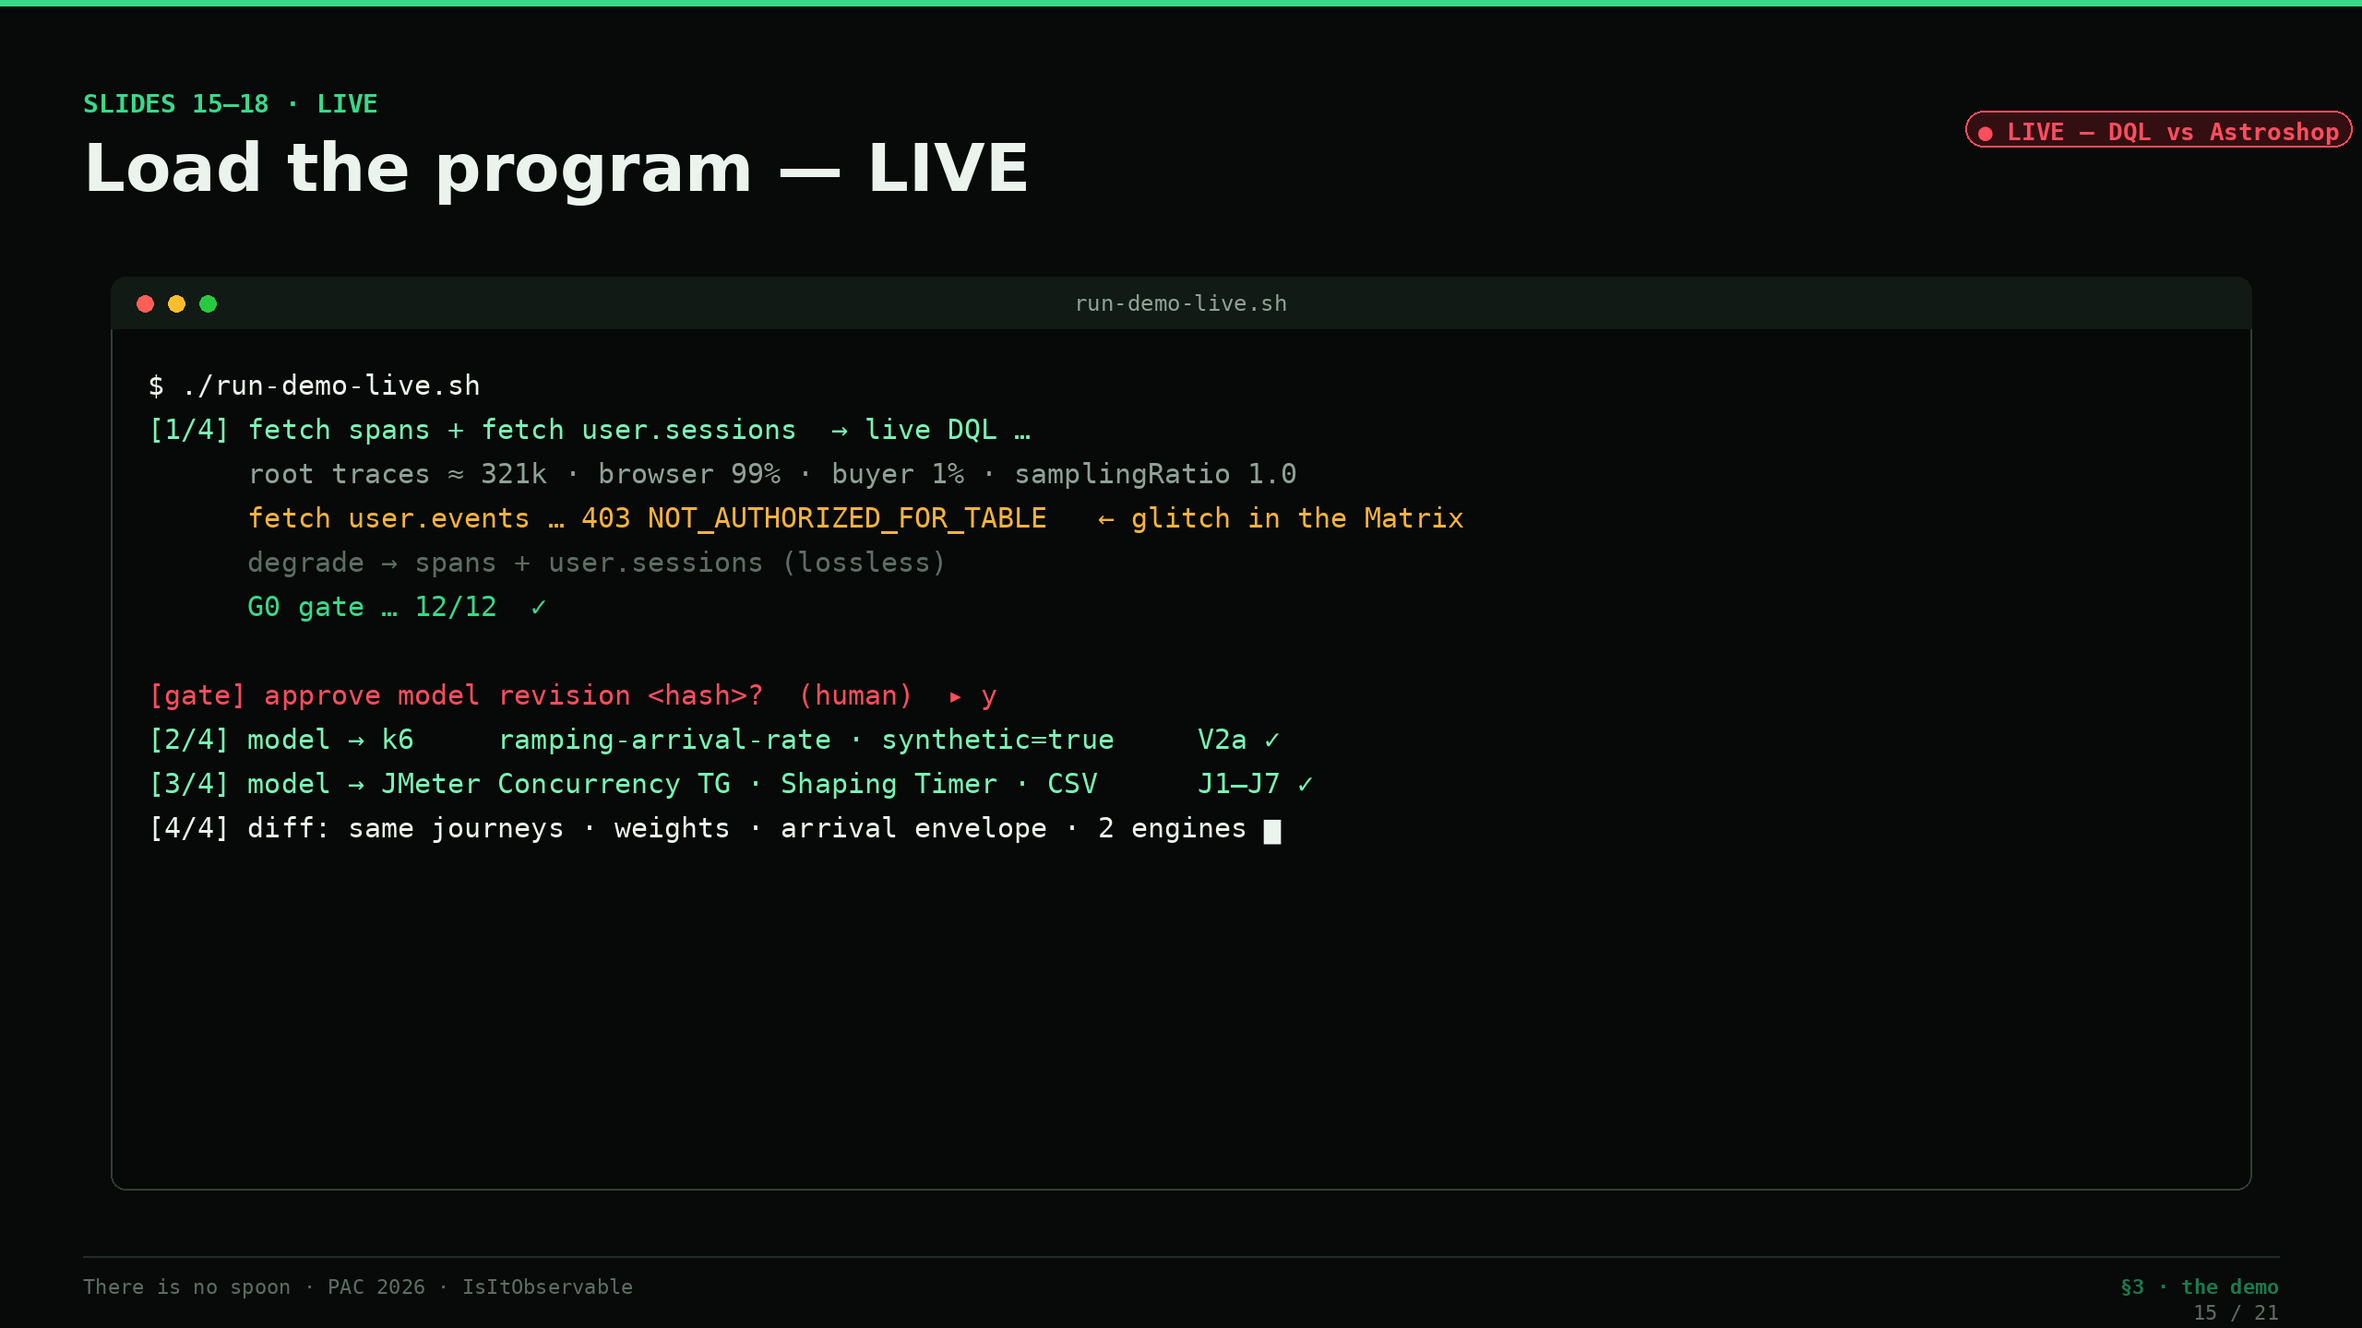
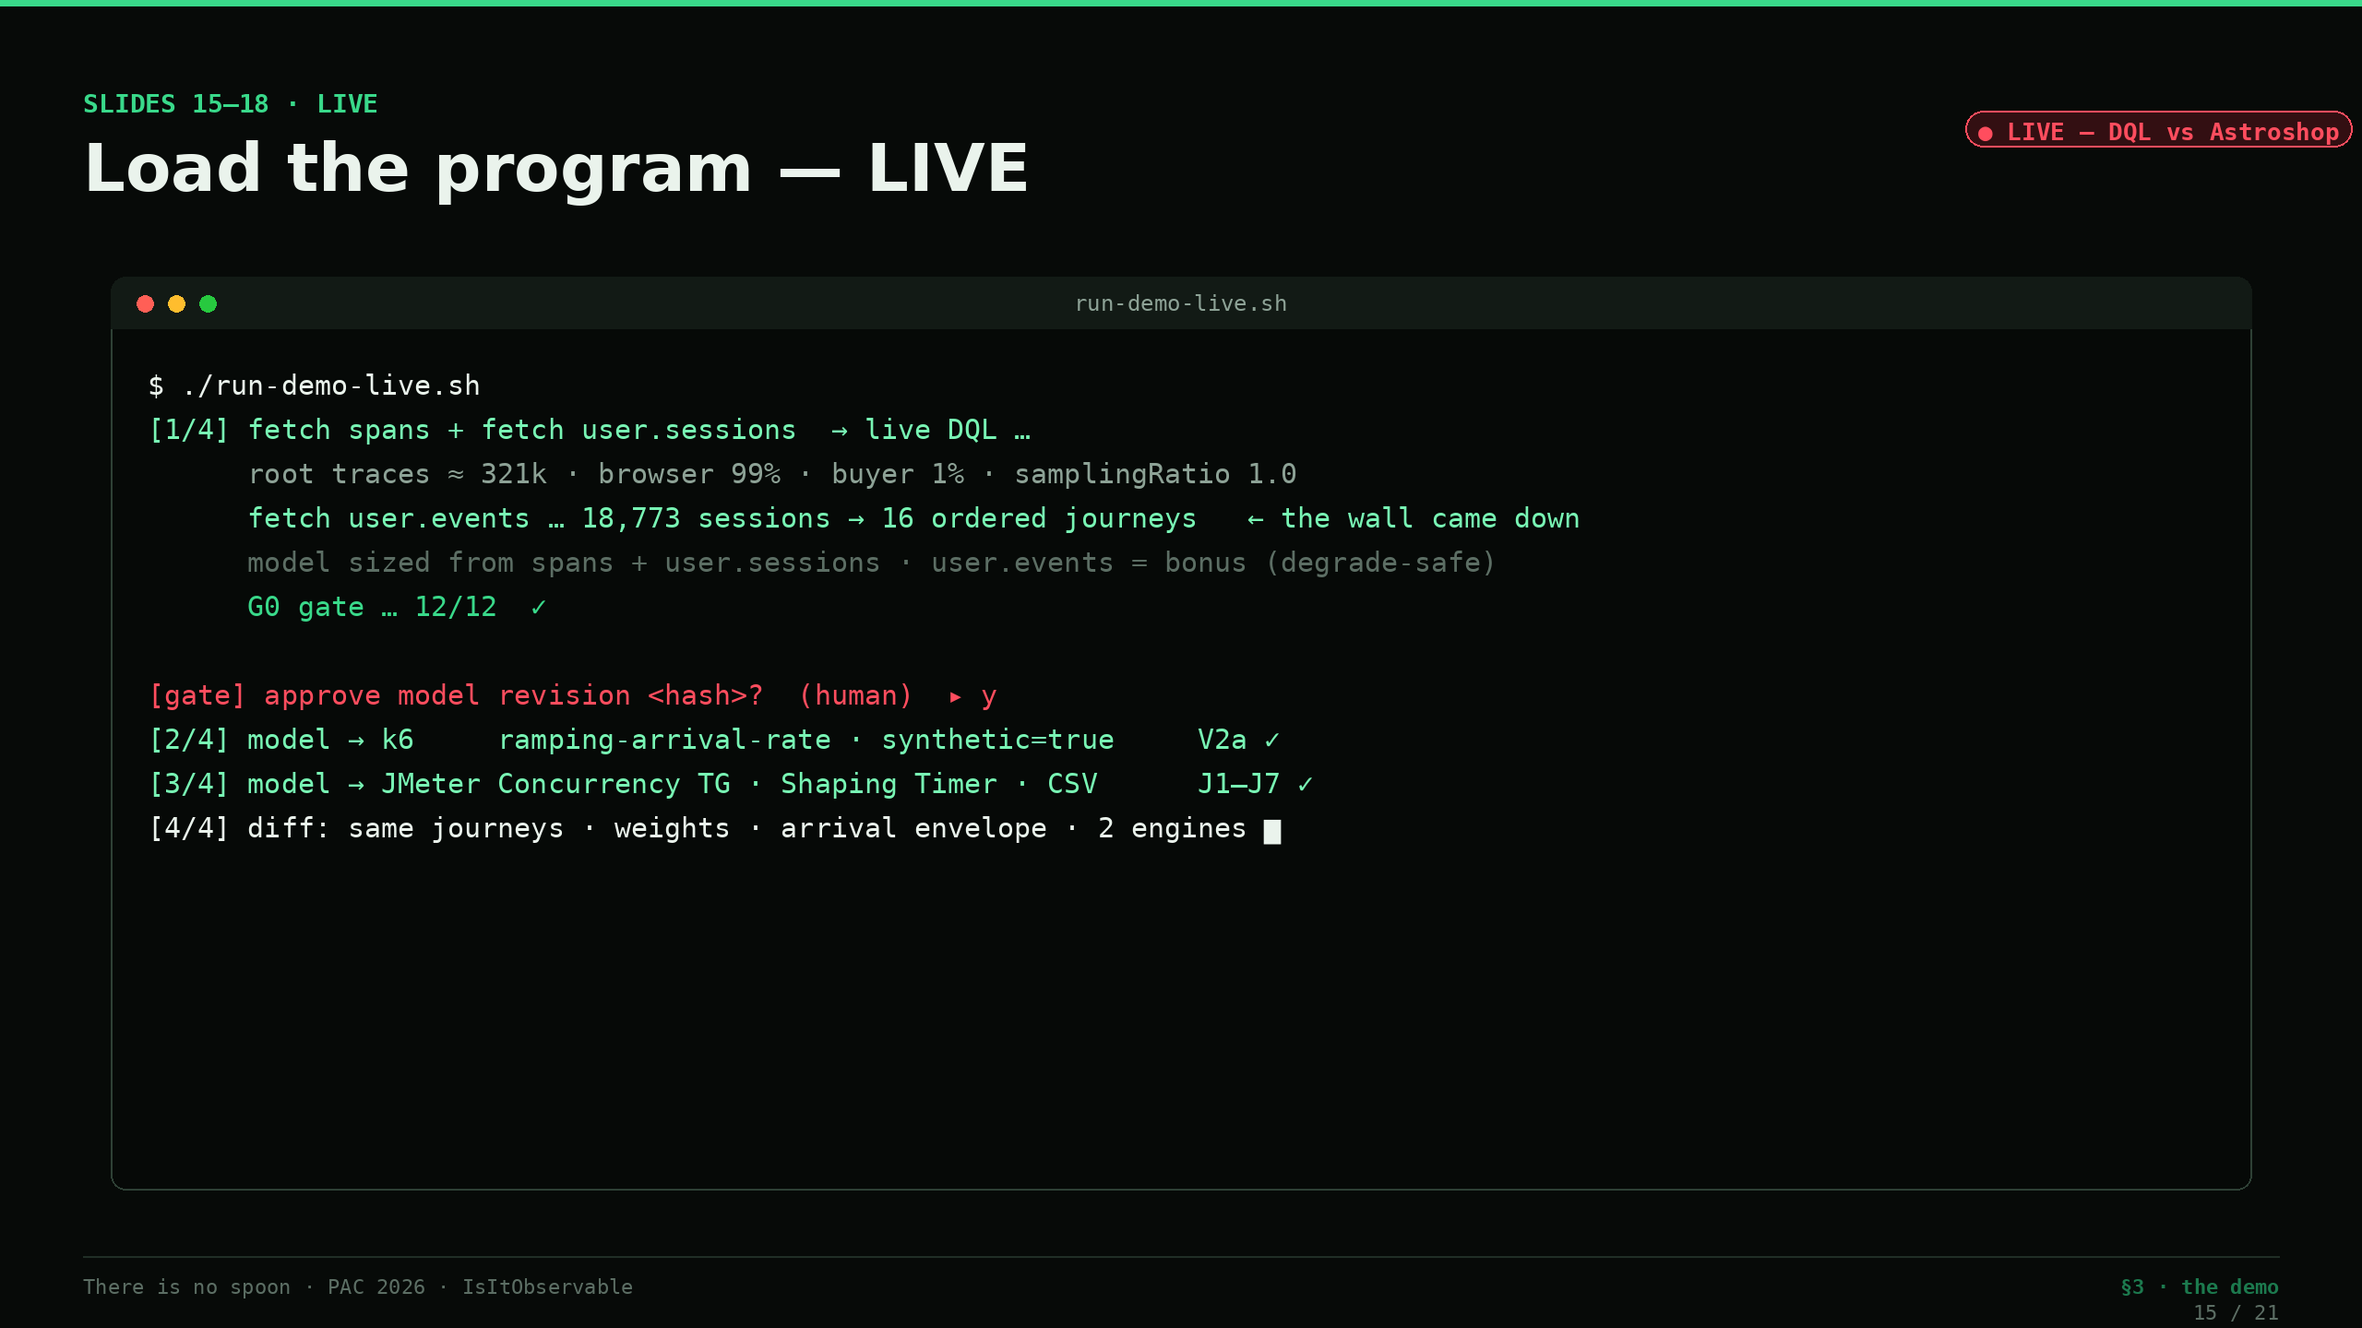
ISI-5726/ISI-5724: user.events now LIVE in slide visuals — edge solid, 403 beat reframed
Post-approval accuracy fix (ISI-5726, flagged by workstream C). Scope
storage:user.events:read was granted on the wkf10640 token 2026-10-13
(ISI-5719, 0e6a552), so `fetch user.events` now returns rows. The Matrix
visual system still narrated it as 403 / scope-gated / glitch.

- d5-stack (slide 13): user.events Grail chip amber/403 -> solid RED
  "RUM · user.events"; grail->built connector dashed-amber -> solid RED
  arrow "user.events -> journeys". Logs leg stays dashed (still spans-only
  on this tenant) — only the user.events edge changed, per C's flag.
- d3-dual-source (slide 8): user.events chip amber "403 · scope-gated" ->
  live green "LIVE · 16 journeys", matching user.sessions. Honesty note
  "volume merge needs only user.sessions + spans" preserved.
- slide-15-demo (demo master/exemplar): "403 NOT_AUTHORIZED_FOR_TABLE ...
  glitch in the Matrix" -> "18,773 sessions -> 16 ordered journeys ... the
  wall came down"; degrade-safe honesty kept as documented fallback. This
  is the LIVE demo beat (slide 16) where the query now succeeds on stage.
- 00-visual-system legend + DESIGN-SYSTEM.md: amber motif reframed from
  "403" to "unavailable (logs leg)"; honesty-flag #1 rewritten (scope
  granted; graceful degrade is now the beat, 403 is the fallback).

Changed region(s): [[0.0938, 0.375, 0.6562, 0.4375]]

diff --git a/presentation-matrix/gen_diagrams.py b/presentation-matrix/gen_diagrams.py
@@ -247,11 +247,11 @@ def d3_dual():
     text_c(d, (rx0+(rx0+rx1)//2)//2+18, ltop+186, "fetch user.sessions", font("mono", 26, bold=True), fill=T.GREEN_HI)
     text_c(d, (rx0+(rx0+rx1)//2)//2+18, ltop+228, "1 row / real session", font("mono", 21), fill=T.MUTE)
     badge(d, (rx0+150, ltop+252), "LIVE · 35,679 / 24h", font("mono", 20, bold=True), fg=T.GREEN)
-    # user.events (403)
-    chip(d, [(rx0+rx1)//2+18, ltop+150, rx1-70, ltop+300], fill=(26,20,12), outline=T.AMBER)
-    text_c(d, (rx1+(rx0+rx1)//2)//2-18, ltop+186, "fetch user.events", font("mono", 26, bold=True), fill=T.AMBER)
+    # user.events (live — scope granted ISI-5719)
+    chip(d, [(rx0+rx1)//2+18, ltop+150, rx1-70, ltop+300], fill=T.BG3, outline=T.GREEN)
+    text_c(d, (rx1+(rx0+rx1)//2)//2-18, ltop+186, "fetch user.events", font("mono", 26, bold=True), fill=T.GREEN_HI)
     text_c(d, (rx1+(rx0+rx1)//2)//2-18, ltop+228, "ordered actions + think-time", font("mono", 19), fill=T.MUTE)
-    badge(d, ((rx0+rx1)//2+110, ltop+252), "403 · scope-gated", font("mono", 20, bold=True), fg=T.AMBER)
+    badge(d, ((rx0+rx1)//2+110, ltop+252), "LIVE · 16 journeys", font("mono", 20, bold=True), fg=T.GREEN)
     text_c(d, (rx0+rx1)//2, ltop+352, "real journeys · real arrival curve · real device / geo / network",
            font("mono", 22), fill=T.INK)
     text_c(d, (rx0+rx1)//2, ltop+410, "volume merge needs only user.sessions + spans (live today)",
@@ -366,9 +366,8 @@ def d5_stack():
     text_c(d, gx0+gw//2, gb[1]+175, "spans  (traces)", font("mono", 30, bold=True), fill=T.GREEN_HI)
     chip(d, [gx0+50, gb[1]+232, gx0+gw-50, gb[1]+302], fill=T.BG3, outline=T.RED)
     text_c(d, gx0+gw//2, gb[1]+267, "RUM · user.sessions", font("mono", 28, bold=True), fill=T.RED)
-    chip(d, [gx0+50, gb[1]+324, gx0+gw-50, gb[1]+394], fill=(26,20,12), outline=T.AMBER)
-    text_c(d, gx0+gw//2, gb[1]+350, "user.events", font("mono", 26, bold=True), fill=T.AMBER)
-    badge(d, (gx0+gw//2-118, gb[1]+372), "403 scope-gated", font("mono", 18, bold=True), fg=T.AMBER)
+    chip(d, [gx0+50, gb[1]+324, gx0+gw-50, gb[1]+394], fill=T.BG3, outline=T.RED)
+    text_c(d, gx0+gw//2, gb[1]+360, "RUM · user.events", font("mono", 26, bold=True), fill=T.RED)
 
     # 4 the built part: agent -> skill -> engine (stacked column)
     cx0 = 1930; cw = 340
@@ -409,10 +408,10 @@ def d5_stack():
     # logs dashed (unavailable)
     dashed_line(d, (b2[2]+14, rowy+150), (gx0-14, rowy+150), fill=T.AMBER, width=4)
     text_c(d, (b2[2]+gx0)//2, rowy+180, "logs — empty on this tenant", font("mono", 20), fill=T.AMBER)
-    # grail -> built column (spans solid, events dashed)
+    # grail -> built column (spans solid; user.events now solid — live, scope granted ISI-5719)
     arrow(d, (gx0+gw+14, rowy-60), (cx0-14, rowy-150), color=T.GREEN, width=6, head=20)
-    dashed_line(d, (gx0+gw+14, rowy+120), (cx0-14, rowy+40), fill=T.AMBER, width=4)
-    text_c(d, (gx0+gw+cx0)//2+10, rowy+150, "user.events 403", font("mono", 19), fill=T.AMBER)
+    arrow(d, (gx0+gw+14, rowy+120), (cx0-14, rowy+40), color=T.RED, width=6, head=20)
+    text_c(d, (gx0+gw+cx0)//2+10, rowy+150, "user.events → journeys", font("mono", 19), fill=T.RED)
     # engine -> gate -> renderers
     arrow(d, (built_boxes[2][2]+10, rowy), (gatex-80, rowy), color=T.GREEN, width=6, head=20)
     arrow(d, (gatex+80, rowy), (rx0-14, rowy), color=T.RED, width=6, head=20)

diff --git a/presentation-matrix/gen_system.py b/presentation-matrix/gen_system.py
@@ -85,7 +85,7 @@ def visual_system():
         ("BG0", T.BG0, "base"), ("BG1", T.BG1, "panel"), ("BG2", T.BG2, "raised"),
         ("LINE", T.LINE2, "border"),
         ("GREEN", T.GREEN, "signal / truth"), ("RED", T.RED, "red pill · the gate"),
-        ("BLUE", T.BLUE, "blue pill · guess"), ("AMBER", T.AMBER, "caution · 403"),
+        ("BLUE", T.BLUE, "blue pill · guess"), ("AMBER", T.AMBER, "caution · unavail"),
         ("INK", T.INK, "text"), ("MUTE", T.MUTE, "text 2"),
     ]
     x = 90
@@ -119,7 +119,7 @@ def visual_system():
     # lock + badge
     lock(d, (mx+40, 806), size=46, color=T.RED)
     text_l(d, (mx+90, 786), "V1 gate (the Oracle)", font("mono", 24), fill=T.INK)
-    badge(d, (mx+90, 826), "403 · scope-gated", font("mono", 22, bold=True), fg=T.AMBER)
+    badge(d, (mx+90, 826), "logs · unavailable", font("mono", 22, bold=True), fg=T.AMBER)
     # rain sample
     rb = [mx+620, 600, mx+880, 850]
     panel(d, rb, fill=T.BG1, outline=T.LINE)
@@ -134,7 +134,7 @@ def visual_system():
     rules = [
         "Theme = punctuation, not argument. In the technical core, numbers carry the weight.",
         "ONE structural accent (green). Red/blue only where guess-vs-truth is the actual point.",
-        "Reserve the glitch treatment for the sampling slide. Dashed+amber = 'unavailable / 403'.",
+        "Reserve the glitch treatment for the sampling slide. Dashed+amber = 'unavailable' (logs leg).",
         "Every Matrix line maps to a real technical claim — or it gets cut.",
     ]
     yy = 1004
@@ -281,8 +281,8 @@ def master_demo(exemplar=False):
         ("$ ./run-demo-live.sh", T.INK),
         ("[1/4] fetch spans + fetch user.sessions  → live DQL …", T.GREEN_HI),
         ("      root traces ≈ 321k · browser 99% · buyer 1% · samplingRatio 1.0", T.MUTE),
-        ("      fetch user.events … 403 NOT_AUTHORIZED_FOR_TABLE   ← glitch in the Matrix", T.AMBER),
-        ("      degrade → spans + user.sessions (lossless)", T.FAINT),
+        ("      fetch user.events … 18,773 sessions → 16 ordered journeys   ← the wall came down", T.GREEN_HI),
+        ("      model sized from spans + user.sessions · user.events = bonus (degrade-safe)", T.FAINT),
         ("      G0 gate … 12/12  ✓", T.GREEN),
         ("", T.INK),
         ("[gate] approve model revision <hash>?  (human)  ▸ y", T.RED),
@@ -295,7 +295,7 @@ def master_demo(exemplar=False):
         text_l(d, (tb[0]+40, yy), s, tf, fill=col)
         yy += 48
     if not exemplar:
-        text_c(d, W//2, H-110, "MASTER · demo · terminal chrome · green-on-black · LIVE badge · 403 + gate highlighted",
+        text_c(d, W//2, H-110, "MASTER · demo · terminal chrome · green-on-black · LIVE badge · live user.events + gate highlighted",
                font("mono", 24), fill=T.FAINT)
     chrome(d, ("§3 · the demo" if exemplar else "master · demo"), 15 if exemplar else 0)
     name = "slide-15-demo" if exemplar else "master-demo"

diff --git a/presentation-matrix/DESIGN-SYSTEM.md b/presentation-matrix/DESIGN-SYSTEM.md
@@ -21,10 +21,10 @@ The theme is a **thin framing layer**. Dark base, green "digital rain" used *spa
 | `GREEN_HI` | `#78F5B4` | rain heads, code glow |
 | `RED` | `#FF4D5E` | **red pill = observed truth / the human gate (the Oracle)** |
 | `BLUE` | `#5C8DEF` | **blue pill = guessing / synthetic / folklore** |
-| `AMBER` | `#F6B23C` | honesty beats: dashed "unavailable" / `403` glitch / caveats |
+| `AMBER` | `#F6B23C` | honesty beats: dashed "unavailable" (empty logs leg) / the sampling glitch (#6) / graceful-degrade fallback / caveats |
 | `INK` / `MUTE` / `FAINT` | `#EAF3EC` / `#8DA296` / `#5C6E64` | text tiers |
 
-**Discipline:** red/blue appear *only* where guess-vs-truth is the actual point. Amber is reserved for "unavailable / 403". The glitch treatment is reserved for the sampling slide (#6). One corner-radius scale (9px @1x). Hairline borders, accent top-rail on nodes.
+**Discipline:** red/blue appear *only* where guess-vs-truth is the actual point. Amber is reserved for "unavailable" (the empty logs leg) and the sampling-glitch beat. The glitch treatment is reserved for the sampling slide (#6). One corner-radius scale (9px @1x). Hairline borders, accent top-rail on nodes.
 
 ### Typography
 - **DejaVu Sans / Sans Bold** — titles & body (the host has no Geist/Satoshi/Inter; DejaVu is the available neutral grotesque and avoids the default-Inter tell).
@@ -32,7 +32,7 @@ The theme is a **thin framing layer**. Dark base, green "digital rain" used *spa
 - Scale @1920×1080 intent: deck title ~150 · slide title 84/72 · body 40 · bullets ≤6 words where possible · mono code 30–32.
 
 ### Motifs
-Red/blue **pills** · **lock** = the V1 gate / the Oracle · amber **`403 · scope-gated`** badge · **code-rain** (hex/binary glyphs, low alpha, edge strips only).
+Red/blue **pills** · **lock** = the V1 gate / the Oracle · amber **dashed "unavailable"** marker (logs leg) · **code-rain** (hex/binary glyphs, low alpha, edge strips only).
 
 See **`images/00-visual-system.png`** — the one-page reference board (palette swatches with hex, type scale, motifs, discipline rules).
 
@@ -45,7 +45,7 @@ See **`images/00-visual-system.png`** — the one-page reference board (palette 
 | Title | `master-title.png` | slide 1, 21 | full-bleed rain, pills introduced; bookend |
 | Section | `master-section.png` | act turns | big `§NN` numeral, rain on right third, pill divider |
 | Content | `master-content.png` | slides 3,5,6,7,8,9,11,12,13,14,20 | kicker + title top-left, bullets left, visual/diagram right **or** full-bleed diagram |
-| Demo | `master-demo.png` | slides 15–18 | terminal chrome, green-on-black, `● LIVE` badge, 403 + gate highlighted |
+| Demo | `master-demo.png` | slides 15–18 | terminal chrome, green-on-black, `● LIVE` badge, live `user.events` + gate highlighted |
 | Discussion 💬 | `master-discussion.png` | slides 4,10,21 | near-empty, one big question, blinking `> _`, rain strip |
 
 Every slide carries the same chrome: 6px green top accent, footer rule with `There is no spoon · PAC 2026 · IsItObservable` (left) and `§ section` + `NN / 21` (right).
@@ -60,21 +60,21 @@ Each diagram ships **twice**: `name.png` (transparent background, drop onto any 
 |---|---|---|---|
 | D1 | `d1-loop` | 19 | **The loop** — SCOPE→VALIDATE→SYNTHESIZE→EXECUTE→ANALYZE clockwise; VALIDATE = the Oracle (red, lock, *Temet Nosce*); closing edge dashed-amber `iterate ≤ 3 → escalate`; center "delegate EXECUTION, not judgment". |
 | D2 | `d2-construct` | 12 | **The Construct (3-layer engine)** — INPUT ADAPTER (backend-specific: DQL/Tempo/Jaeger/Envoy) → **ENGINE** (agnostic·deterministic·offline-testable; discovery, ~80% clustering, Little's Law, ramp, dataset sizing) → RENDERERS (k6/JMeter/Locust/Gatling ✓). Labels: `neutral telemetry`, `workload-model.json`. |
-| D3 | `d3-dual-source` | 8 | **Dual-source storage** — SERVER-SIDE TRACES → `fetch spans`; RUM → `fetch user.sessions` (LIVE) + `fetch user.events` (**403 · scope-gated**, amber); both via **DQL**; **stitched on `dt.rum.session.id`** (red); → one workload model. "Residual self image" wireframe motif. |
+| D3 | `d3-dual-source` | 8 | **Dual-source storage** — SERVER-SIDE TRACES → `fetch spans`; RUM → `fetch user.sessions` (LIVE) + `fetch user.events` (**LIVE · 16 journeys**, green — scope granted ISI-5719); both via **DQL**; **stitched on `dt.rum.session.id`** (red); → one workload model. "Residual self image" wireframe motif. |
 | D4 | `d4-many-worlds` | 14 | **One model, many worlds** — one `workload-model.json` → renderer registry → k6 / JMeter / Locust / Gatling, each `✓ acceptance tests`. "Guns. Lots of guns." |
-| D5 | `d5-stack` | 13 | **The wired stack** — Astroshop (OTel Demo) → OTel Collector → Dynatrace Grail (`spans` / `user.sessions` / `user.events`) → agent → skill → engine → **V1 gate (lock)** → renderers (k6, JMeter). **Honest annotations:** `logs` leg **dashed** (empty on this tenant), `user.events` edge **dashed + 403**. Footer: read-only · extraction-only · non-production · tenant-isolated. |
+| D5 | `d5-stack` | 13 | **The wired stack** — Astroshop (OTel Demo) → OTel Collector → Dynatrace Grail (`spans` / `user.sessions` / `user.events`) → agent → skill → engine → **V1 gate (lock)** → renderers (k6, JMeter). **Honest annotations:** `logs` leg **dashed** (empty on this tenant); `user.events` edge **solid** (live — scope granted ISI-5719 → ordered journeys). Footer: read-only · extraction-only · non-production · tenant-isolated. |
 
 ---
 
 ## 4. Exemplar slides (masters applied to A's real copy)
 
-Proof the system holds up with real content — `slide-01-title`, `slide-02-bluepill`, `slide-08-dual` (D3 full-bleed), `slide-10-discussion` (the ×1.27 beat), `slide-15-demo` (live terminal with the 403 glitch + gate), `slide-19-loop` (D1 full-bleed).
+Proof the system holds up with real content — `slide-01-title`, `slide-02-bluepill`, `slide-08-dual` (D3 full-bleed), `slide-10-discussion` (the ×1.27 beat), `slide-15-demo` (live terminal — `user.events` returns rows + the gate), `slide-19-loop` (D1 full-bleed).
 
 ---
 
 ## 5. Honesty flags carried into the visuals (do not remove)
 
-- **`user.events` = 403 scope-gated** — shown on D3, D5, the demo terminal, and the limits slide. It is a *reproducible on-stage beat*, not hidden. (A §Part5.3, C §9.)
+- **`user.events` = LIVE** (scope `storage:user.events:read` granted 2026-10-13, ISI-5719) — D3/D5 draw it **solid/green** (ordered journeys → `rum-journey-model.json`); the demo terminal shows it **returning rows** ("the wall came down"). The honesty beat is now the *graceful degrade*: the model is sized from spans + `user.sessions` and never depended on `user.events`, so it degrades cleanly if the scope is ever removed — the 403 is the documented **fallback**, not a live blocker. (A §Part5.3 rev4, C §9, ISI-5726.)
 - **logs = unavailable on this tenant** — D5 draws the logs leg dashed (spans-&-RUM here, not logs). (C §8.)
 - **1.27 = source-coverage, not a sampling inverse** — spans are un-sampled (`samplingRatio 1.0`). D3 says so explicitly; the ×1.27 bar reveal lives on slide 10, kept distinct from the sampling-trap slide (6).
 - **QR / repo links are a PLACEHOLDER** — D5's QR is a non-scannable placeholder tile labelled *"pending public mirror (ISI-5659)"*. ⚠ **Do not bake a live QR until [ISI-5659](/ISI/issues/ISI-5659) publishes `github.com/henrikrexed/AI-Performance-Testing` and every linked path resolves.** (A §Part5.9.)
